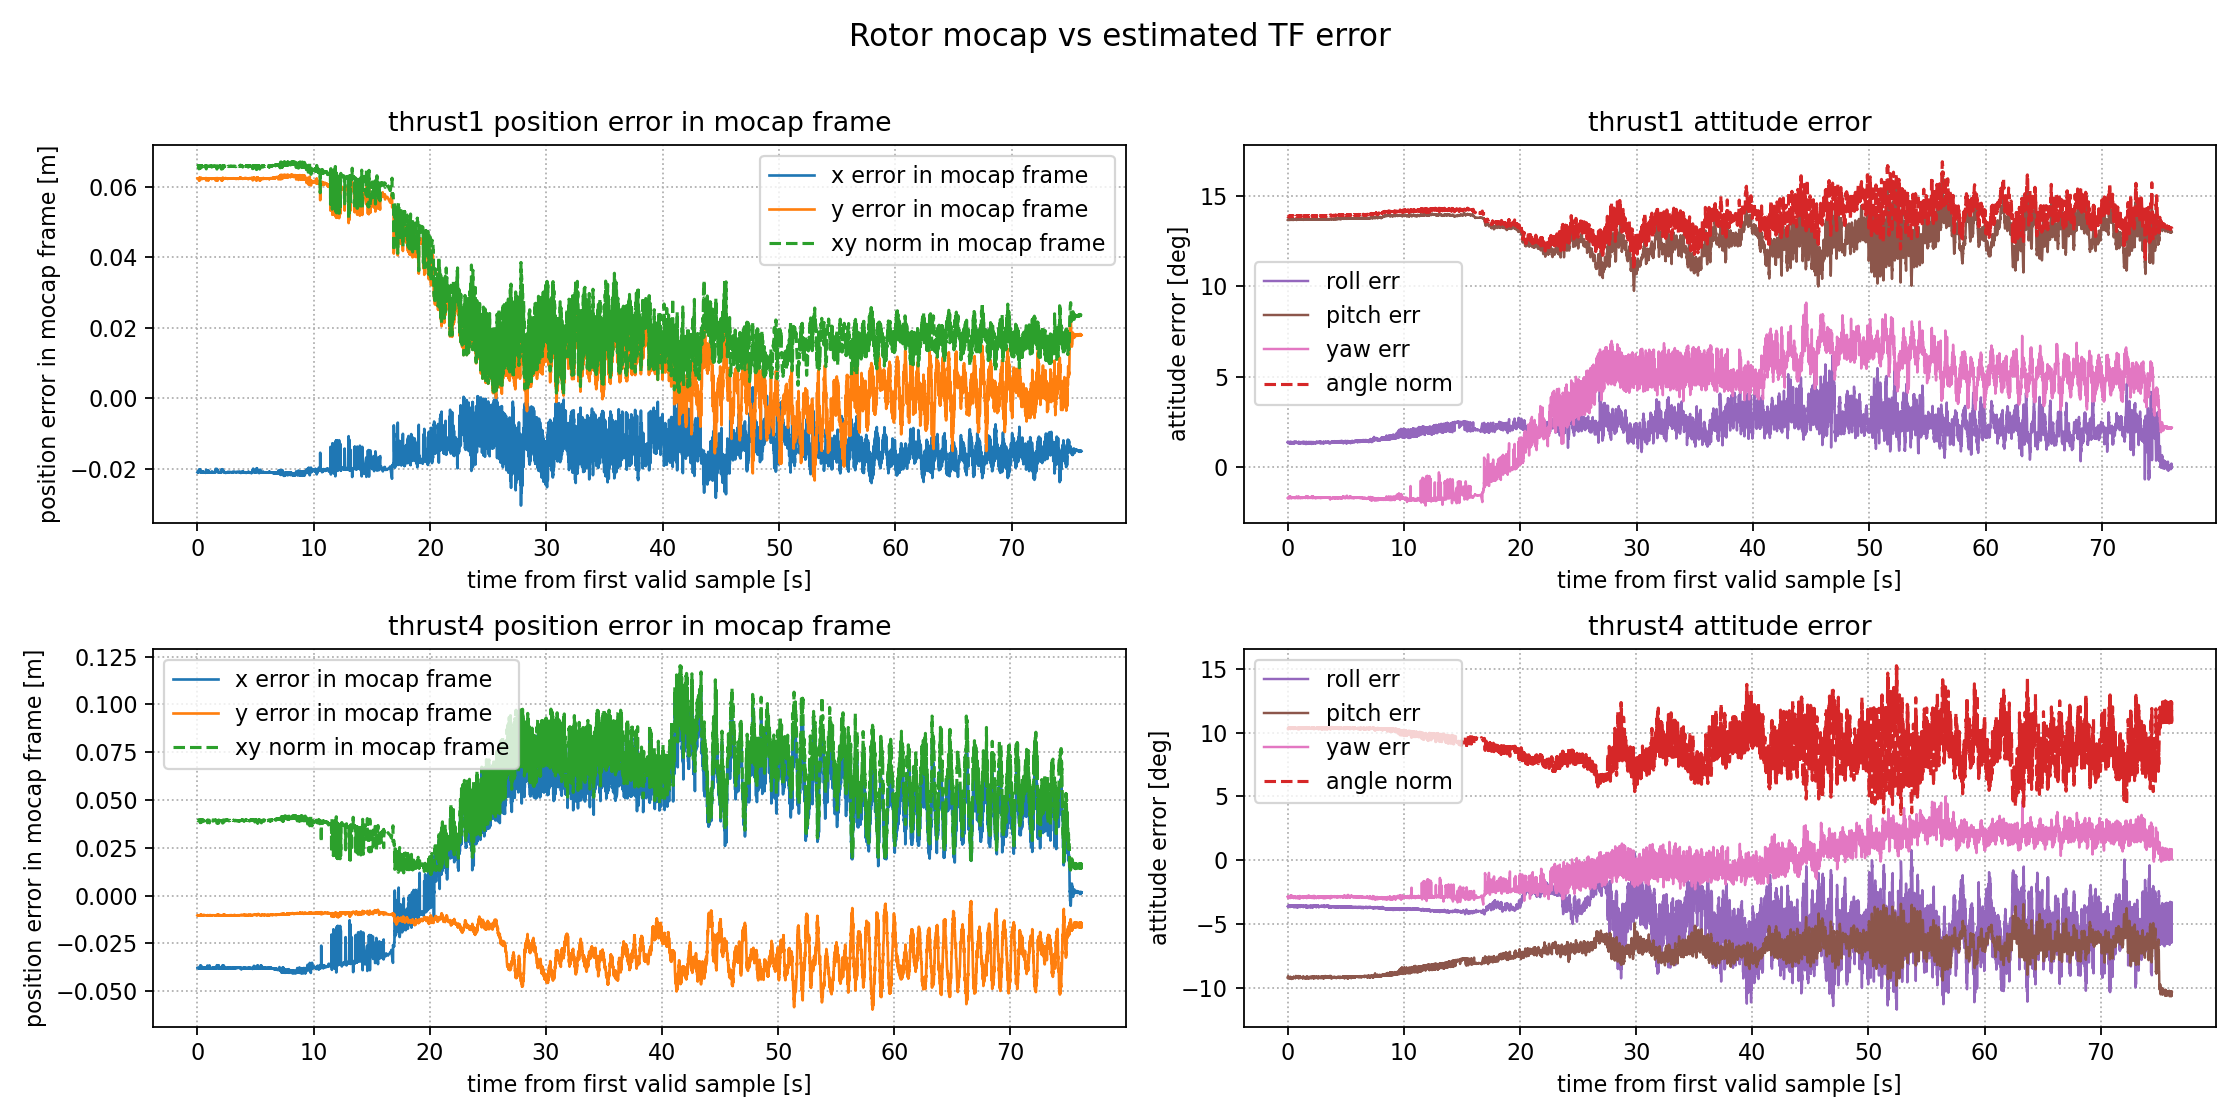
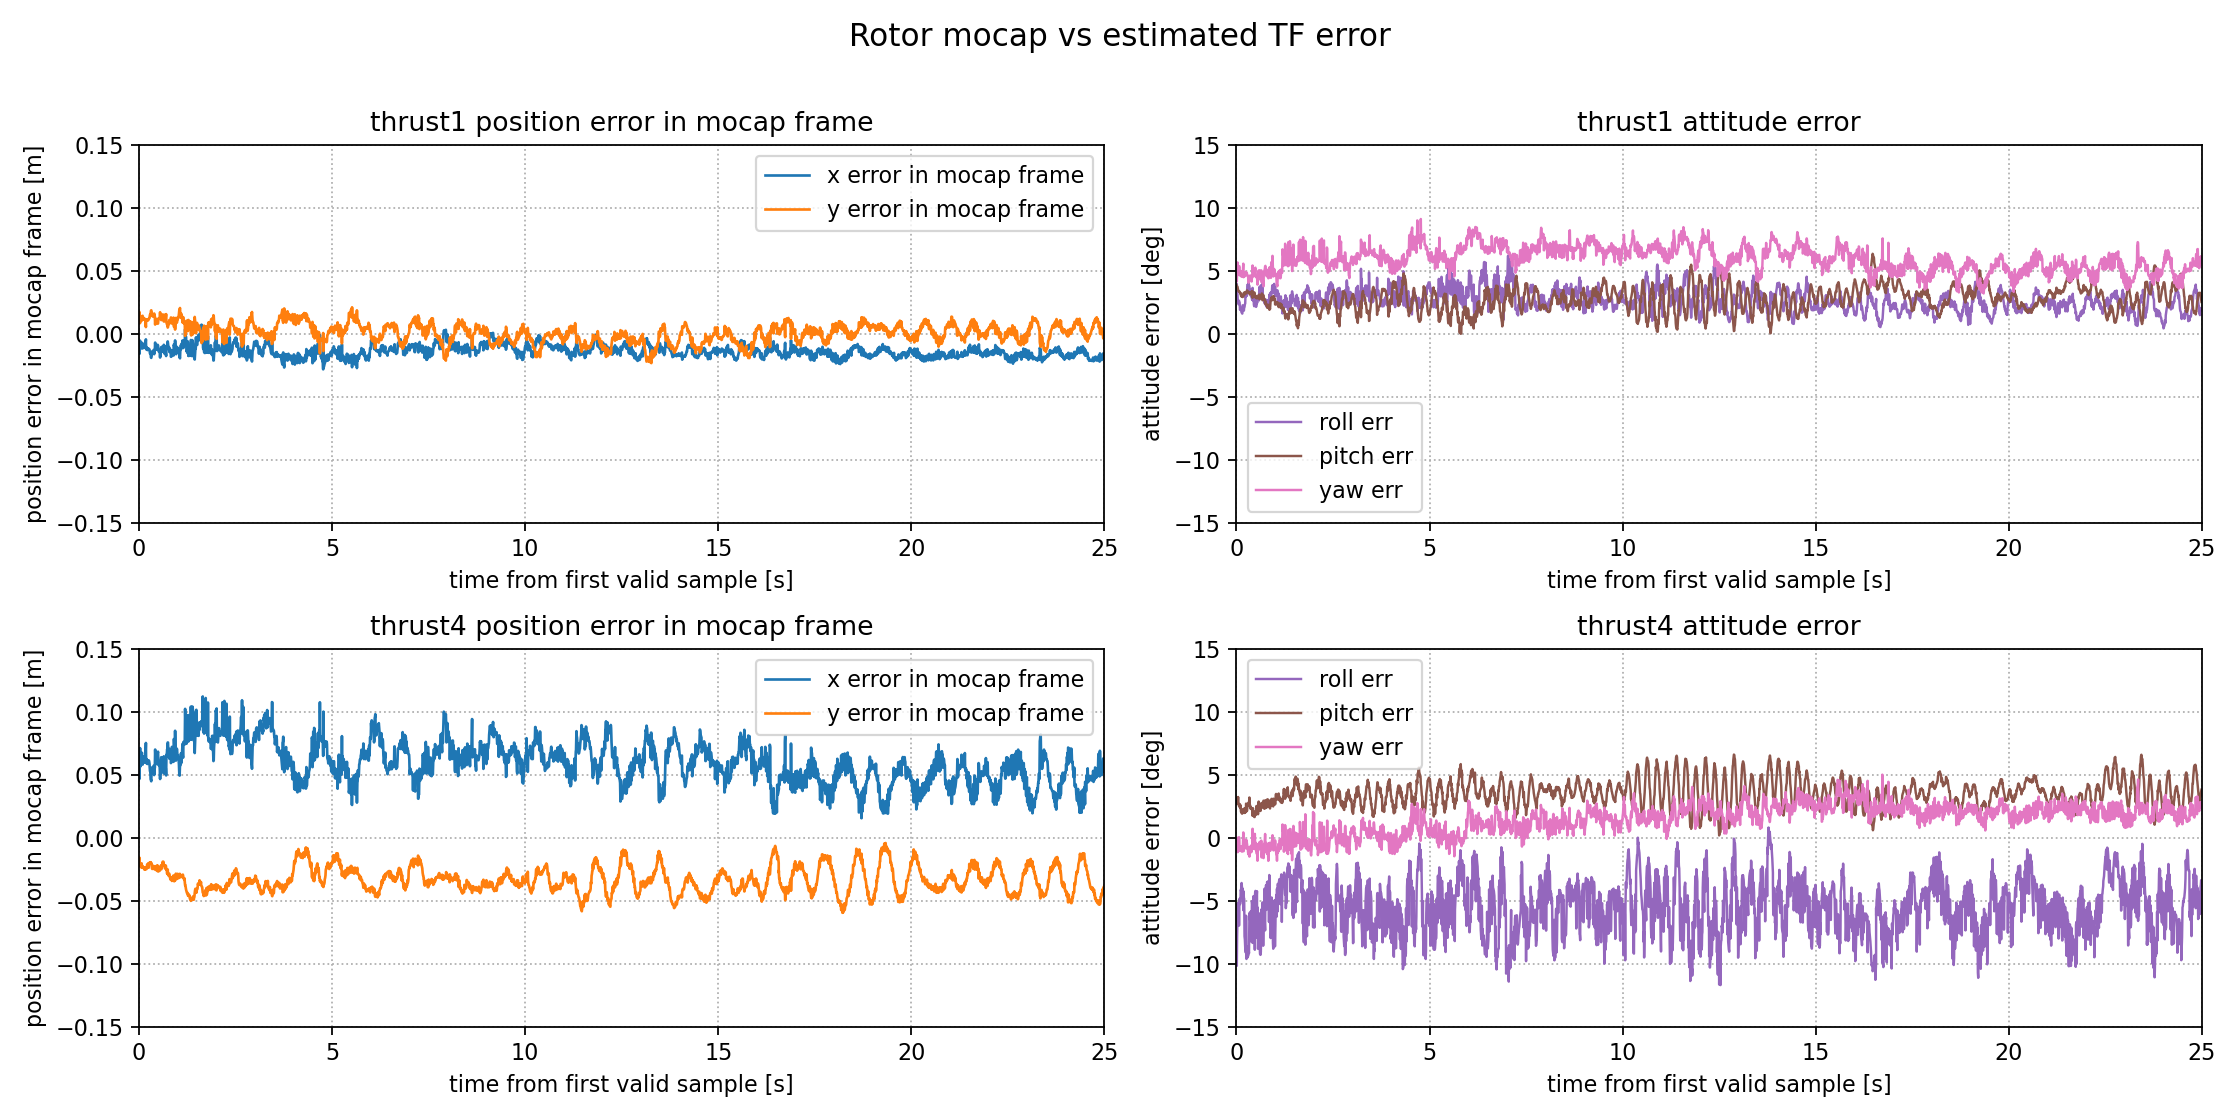
add data for change_configuration experiment

diff --git a/robots/hydrus/scripts/plot/plot_rotor_mocap_estimation_error.py b/robots/hydrus/scripts/plot/plot_rotor_mocap_estimation_error.py
@@ -164,6 +164,38 @@ def topic_to_rotor_frame(topic):
     return rotor, "{}/{}".format(ns, rotor)
 
 
+def find_trigger_window(bag_path, trigger_topic, ignore_seconds, plot_duration):
+    with rosbag.Bag(bag_path, "r") as bag:
+        bag_start = bag.get_start_time()
+        bag_end = bag.get_end_time()
+        search_start = bag_start + ignore_seconds
+
+        trigger_time = None
+        for _, msg, bag_time in bag.read_messages(topics=[trigger_topic]):
+            sample_time = extract_stamp(msg, bag_time.to_sec())
+            if sample_time >= search_start:
+                trigger_time = sample_time
+                break
+
+    if trigger_time is None:
+        raise RuntimeError(
+            "No message on '{}' was found after {:.1f} seconds from bag start.".format(
+                trigger_topic, ignore_seconds
+            )
+        )
+
+    window_end = trigger_time + plot_duration
+    if bag_end < window_end:
+        raise RuntimeError(
+            "Bag ends at {:.3f}, but {:.1f} seconds are required after trigger time {:.3f}.".format(
+                bag_end, plot_duration, trigger_time
+            )
+        )
+    print(trigger_time -bag_start, window_end-bag_start)
+
+    return trigger_time, window_end
+
+
 def get_world_to_child(current_transforms, world_frame, child_frame, sample_time, max_age):
     world = normalize_name(world_frame)
     child = normalize_name(child_frame)
@@ -208,6 +240,8 @@ def collect_error_series(
     namespace,
     world_frame,
     max_tf_age,
+    window_start,
+    window_end,
     mocap_topics=None,
     tf_topic="/tf",
     tf_static_topic="/tf_static",
@@ -232,6 +266,8 @@ def collect_error_series(
 
         for topic, msg, bag_time in bag.read_messages(topics=topics_to_read):
             sample_time = bag_time.to_sec()
+            if sample_time > window_end:
+                break
 
             if topic == tf_topic or topic == tf_static_topic:
                 for transform in msg.transforms:
@@ -259,6 +295,11 @@ def collect_error_series(
                 continue
 
             mocap_time = extract_stamp(msg, sample_time)
+            if mocap_time < window_start:
+                continue
+            if mocap_time > window_end:
+                continue
+
             estimated = get_world_to_child(
                 current_transforms=current_transforms,
                 world_frame=world_frame,
@@ -281,7 +322,8 @@ def collect_error_series(
             series[rotor_name]["dxy"].append(float(np.linalg.norm(pos_error[:2])))
             series[rotor_name]["dz"].append(pos_error[2])
             series[rotor_name]["roll_deg"].append(math.degrees(wrap_to_pi(roll_err)))
-            series[rotor_name]["pitch_deg"].append(math.degrees(wrap_to_pi(pitch_err)))
+            series[rotor_name]["pitch_deg"].append(math.degrees(wrap_to_pi(pitch_err)) - 10 if rotor_name == "thrust1" else math.degrees(wrap_to_pi(pitch_err)) + 10)
+            # series[rotor_name]["pitch_deg"].append(math.degrees(wrap_to_pi(pitch_err)))
             series[rotor_name]["yaw_deg"].append(math.degrees(wrap_to_pi(yaw_err)))
             series[rotor_name]["angle_deg"].append(quaternion_angle_deg(delta_q))
             series[rotor_name]["tf_age"].append(estimated["max_age"])
@@ -431,20 +473,24 @@ def plot_series(series, output_path):
 
         ax_xy.plot(t, values["dx"], label="x error in mocap frame", color="#1f77b4", linewidth=1.2)
         ax_xy.plot(t, values["dy"], label="y error in mocap frame", color="#ff7f0e", linewidth=1.2)
-        ax_xy.plot(t, values["dxy"], label="xy norm in mocap frame", color="#2ca02c", linewidth=1.4, linestyle="--")
+        # ax_xy.plot(t, values["dxy"], label="xy norm in mocap frame", color="#2ca02c", linewidth=1.4, linestyle="--")
         ax_xy.set_title("{} position error in mocap frame".format(rotor_name))
         ax_xy.set_xlabel("time from first valid sample [s]")
         ax_xy.set_ylabel("position error in mocap frame [m]")
+        ax_xy.set_xlim(0, 25)
+        ax_xy.set_ylim(-0.15, 0.15)
         ax_xy.grid(True, linestyle=":", linewidth=0.8)
         ax_xy.legend(loc="best")
 
         ax_att.plot(t, values["roll_deg"], label="roll err", color="#9467bd", linewidth=1.1)
         ax_att.plot(t, values["pitch_deg"], label="pitch err", color="#8c564b", linewidth=1.1)
         ax_att.plot(t, values["yaw_deg"], label="yaw err", color="#e377c2", linewidth=1.1)
-        ax_att.plot(t, values["angle_deg"], label="angle norm", color="#d62728", linewidth=1.4, linestyle="--")
+        # ax_att.plot(t, values["angle_deg"], label="angle norm", color="#d62728", linewidth=1.4, linestyle="--")
         ax_att.set_title("{} attitude error".format(rotor_name))
         ax_att.set_xlabel("time from first valid sample [s]")
         ax_att.set_ylabel("attitude error [deg]")
+        ax_att.set_xlim(0, 25)
+        ax_att.set_ylim(-15.0, 15.0)
         ax_att.grid(True, linestyle=":", linewidth=0.8)
         ax_att.legend(loc="best")
 
@@ -463,6 +509,22 @@ def parse_args():
     parser.add_argument("bag", help="Input rosbag path")
     parser.add_argument("--namespace", default="hydrus", help="Robot namespace, e.g. hydrus")
     parser.add_argument("--world-frame", default="world", help="World frame name used in TF")
+    parser.add_argument(
+        "--ignore-seconds",
+        type=float,
+        default=30.0,
+        help="Ignore the first N seconds from bag start before searching the trigger topic",
+    )
+    parser.add_argument(
+        "--plot-duration",
+        type=float,
+        default=25.0,
+        help="Plot this many seconds from the first trigger message after --ignore-seconds",
+    )
+    parser.add_argument(
+        "--trigger-topic",
+        help="Trigger topic. Default: /<namespace>/soft_joint_reference_interp",
+    )
     parser.add_argument(
         "--max-tf-age",
         type=float,
@@ -487,6 +549,13 @@ def main():
 
     bag_path = os.path.abspath(args.bag)
     bag_stem = os.path.splitext(os.path.basename(bag_path))[0]
+    trigger_topic = args.trigger_topic or "/{}/soft_joint_reference_interp".format(normalize_name(args.namespace))
+    window_start, window_end = find_trigger_window(
+        bag_path=bag_path,
+        trigger_topic=trigger_topic,
+        ignore_seconds=args.ignore_seconds,
+        plot_duration=args.plot_duration,
+    )
     output_path = args.output or os.path.join(
         os.path.dirname(bag_path), "{}_rotor_mocap_estimation_error.png".format(bag_stem)
     )
@@ -496,17 +565,26 @@ def main():
         namespace=args.namespace,
         world_frame=args.world_frame,
         max_tf_age=args.max_tf_age,
+        window_start=window_start,
+        window_end=window_end,
         tf_topic=args.tf_topic,
         tf_static_topic=args.tf_static_topic,
     )
 
     if not any(len(values["time"]) > 0 for values in series.values()):
         raise RuntimeError(
-            "No valid mocap/TF pairs were found. Try increasing --max-tf-age or checking the TF world frame."
+            "No valid mocap/TF pairs were found in the requested {:.1f}-second window after trigger.".format(
+                args.plot_duration
+            )
         )
 
     plot_series(series, output_path)
     print_summary(series, skipped_missing_tf, skipped_bad_pose)
+    print(
+        "Trigger topic '{}' at {:.3f}s, plotting [{:.3f}, {:.3f}]".format(
+            trigger_topic, window_start, window_start, window_end
+        )
+    )
     print("Saved plot to {}".format(output_path))
 
     if args.csv:
